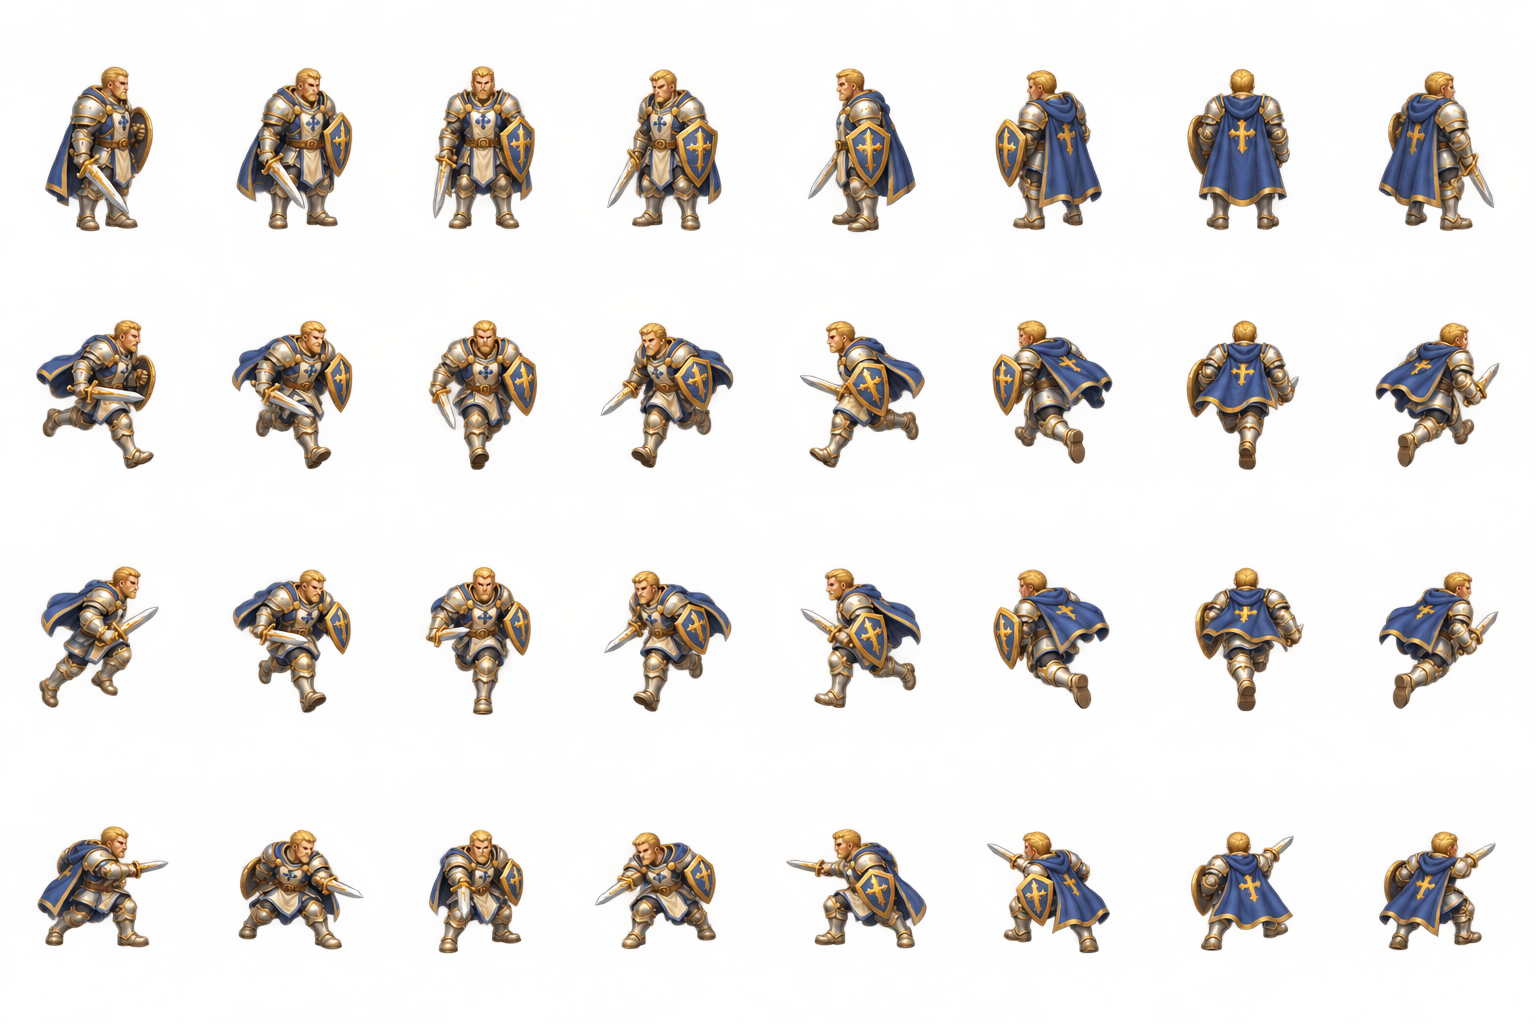
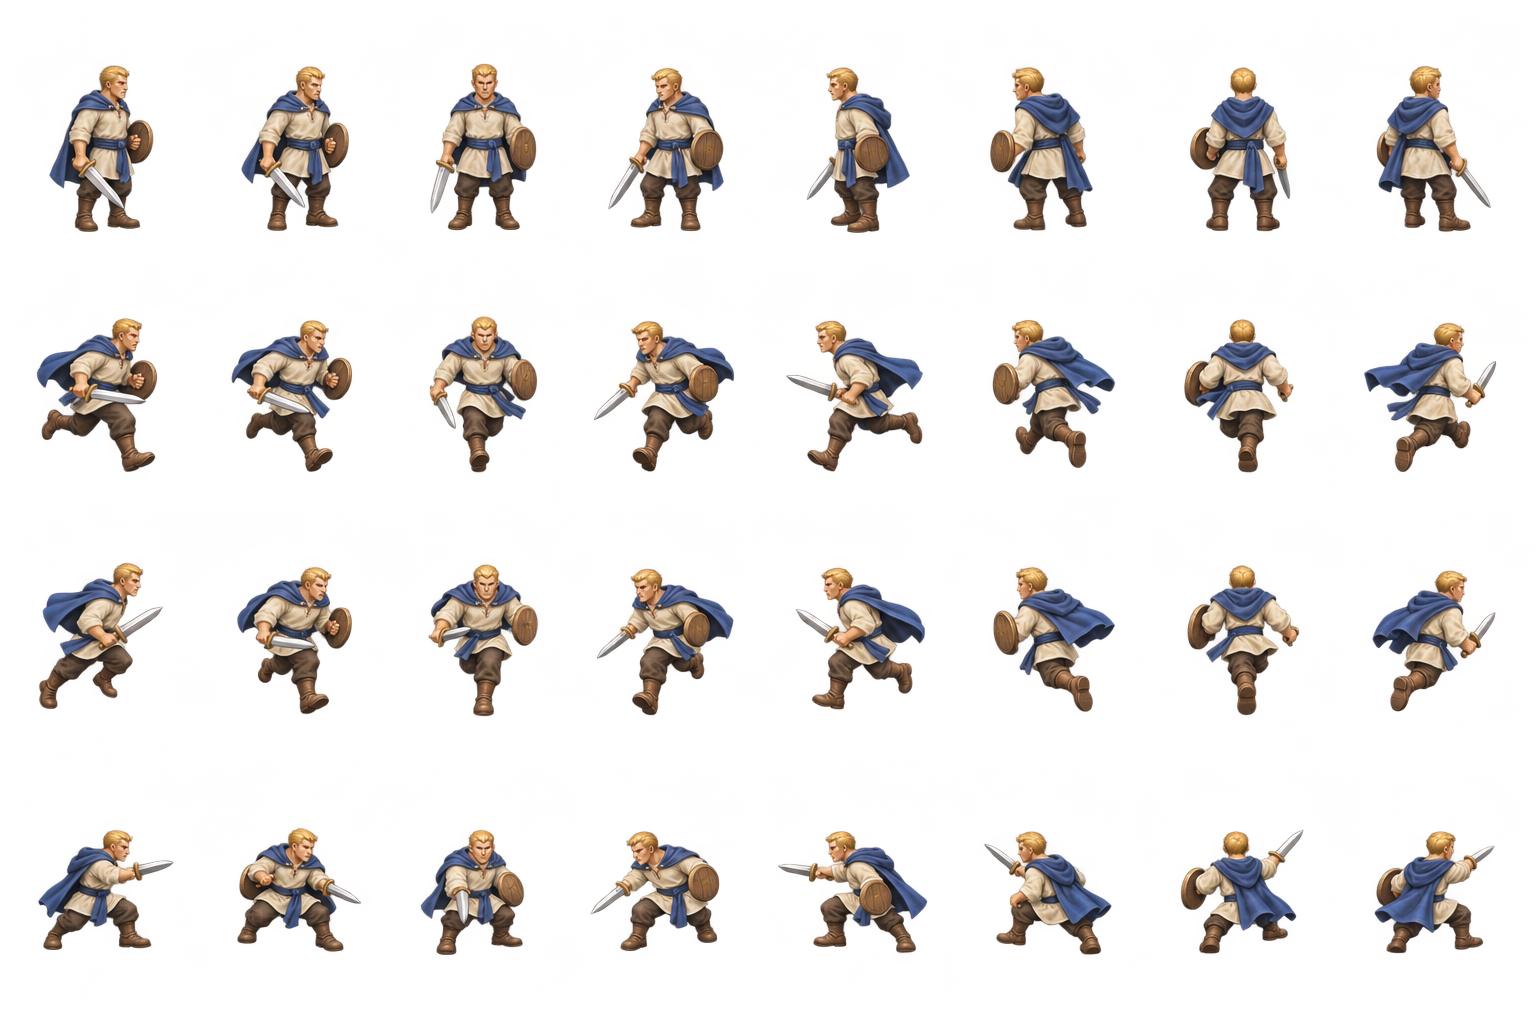
Show an unequipped paladin in starter cloth instead of permanent plate armor

diff --git a/js/assets/actorArt.js b/js/assets/actorArt.js
@@ -3,7 +3,7 @@ export const ACTOR_ART=Object.freeze({
  warrior:{key:'actor-warrior',url:'assets/actors/heroes/warrior.png',atlasURL:'assets/actors/heroes/warrior.json',scale:.40,baselines:{idle:246,'run-a':230,'run-b':224,attack:220},equipment:true},
  archer:{key:'actor-archer',url:'assets/actors/heroes/archer.png',atlasURL:'assets/actors/heroes/archer.json',scale:.46,baselines:{idle:242,'run-a':222,'run-b':214,attack:216},equipment:true,weaponType:'bow'},
  mage:{key:'actor-mage',url:'assets/actors/heroes/mage.png',atlasURL:'assets/actors/heroes/mage.json',scale:.40,baselines:{idle:238,'run-a':230,'run-b':227,attack:227},equipment:true,weaponType:'staff'},
- paladin:{key:'actor-paladin',url:'assets/actors/heroes/paladin.png',atlasURL:'assets/actors/heroes/paladin.json',scale:.52,baselines:{idle:230,'run-a':212,'run-b':198,attack:182},equipment:true,weaponType:'sword'},
+ paladin:{key:'actor-paladin',url:'assets/actors/heroes/paladin.png',atlasURL:'assets/actors/heroes/paladin.json',scale:.52,baselines:{idle:231,'run-a':216,'run-b':201,attack:185},equipment:true,weaponType:'sword'},
  assassin:{key:'actor-assassin',url:'assets/actors/heroes/assassin.png',atlasURL:'assets/actors/heroes/assassin.json',scale:.47,baselines:{idle:237,'run-a':218,'run-b':209,attack:201},equipment:true,weaponType:'dagger'},
  cannoneer:{key:'actor-cannoneer',url:'assets/actors/heroes/cannoneer.png',atlasURL:'assets/actors/heroes/cannoneer.json',scale:.50,baselines:{idle:231,'run-a':220,'run-b':210,attack:200},equipment:true,weaponType:'cannon',equipmentScaleY:.78},
  forestWolf:{key:'actor-forest-wolf',url:'assets/actors/monsters/forestWolf.png',atlasURL:'assets/actors/monsters/forestWolf.json',scale:.48,baselines:{idle:201,'run-a':183,'run-b':175,attack:176}}
